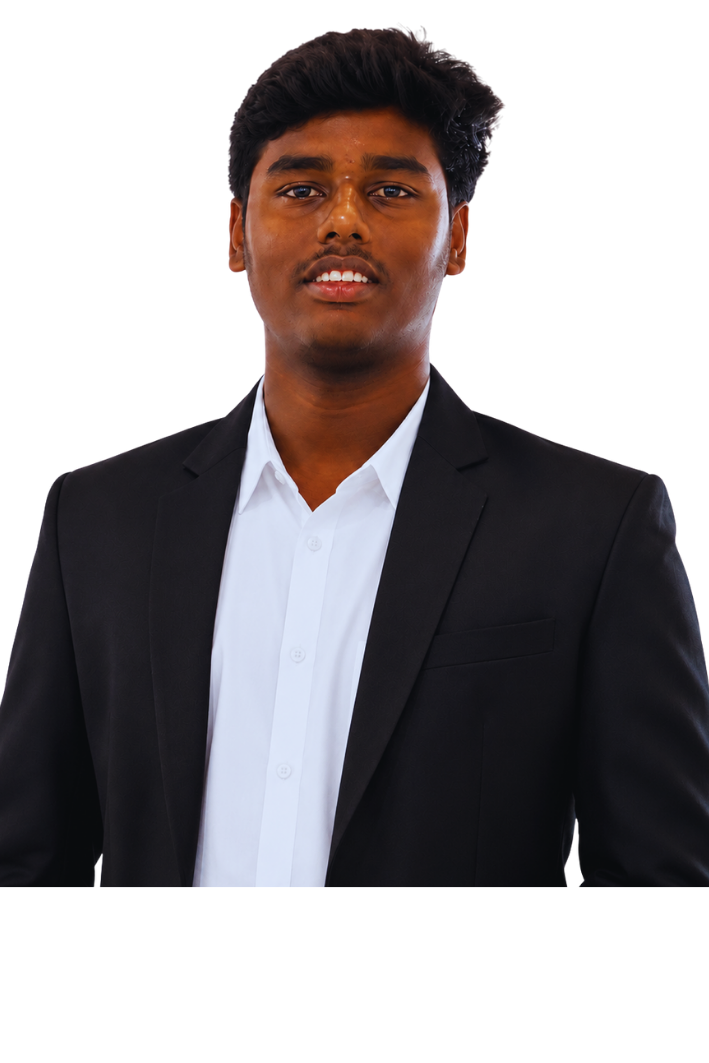
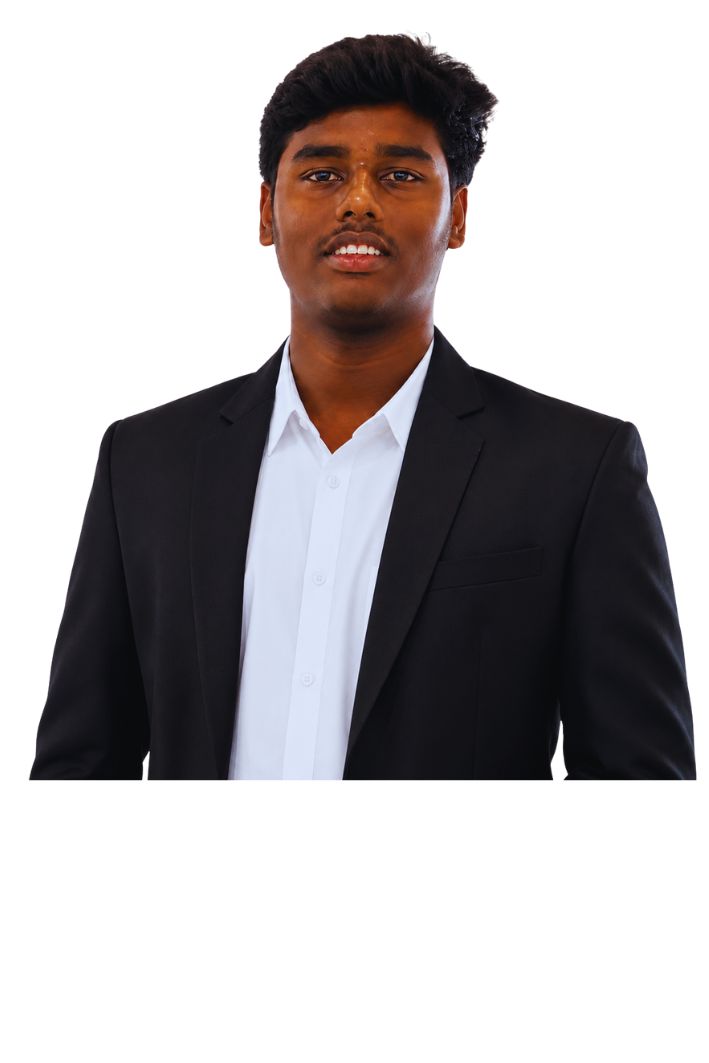
Added new emply and update em 1 linkedin profile link

Changed region(s): [[0.0, 0.0, 1.0, 0.8382], [0.1551, 0.5898, 0.1862, 0.683]]

diff --git a/components/pages/AboutPageClient.tsx b/components/pages/AboutPageClient.tsx
@@ -26,7 +26,7 @@ const teamMembers = [
     description:
       "Sets the product and engineering vision, keeping the team focused on building intelligent software.",
     image: "/team/abi.png",
-    linkedin: "https://linkedin.com/in/abishekg",
+    linkedin: "https://www.linkedin.com/in/abishek-cbe/",
     badgeClass: "bg-brand-500/10 text-brand-600 border-brand-500/20",
     barClass: "bg-brand-500",
   },
@@ -69,6 +69,16 @@ const teamMembers = [
     linkedin: "https://www.linkedin.com/in/naveen-k2008/",
     badgeClass: "bg-rose-500/10 text-rose-600 border-rose-500/20",
     barClass: "bg-rose-500",
+  },
+  {
+    name: "Nakshatra V",
+    role: "Technical Support Engineer",
+    description:
+      "Provides fast, reliable technical support, troubleshooting, and customer success for NexGen's platforms.",
+    image: "/team/nak.png",
+    linkedin: "https://www.linkedin.com/in/nakshatra-veera-ragavan-279861335/",
+    badgeClass: "bg-emerald-500/10 text-emerald-600 border-emerald-500/20",
+    barClass: "bg-emerald-500",
   },
 ];
 
